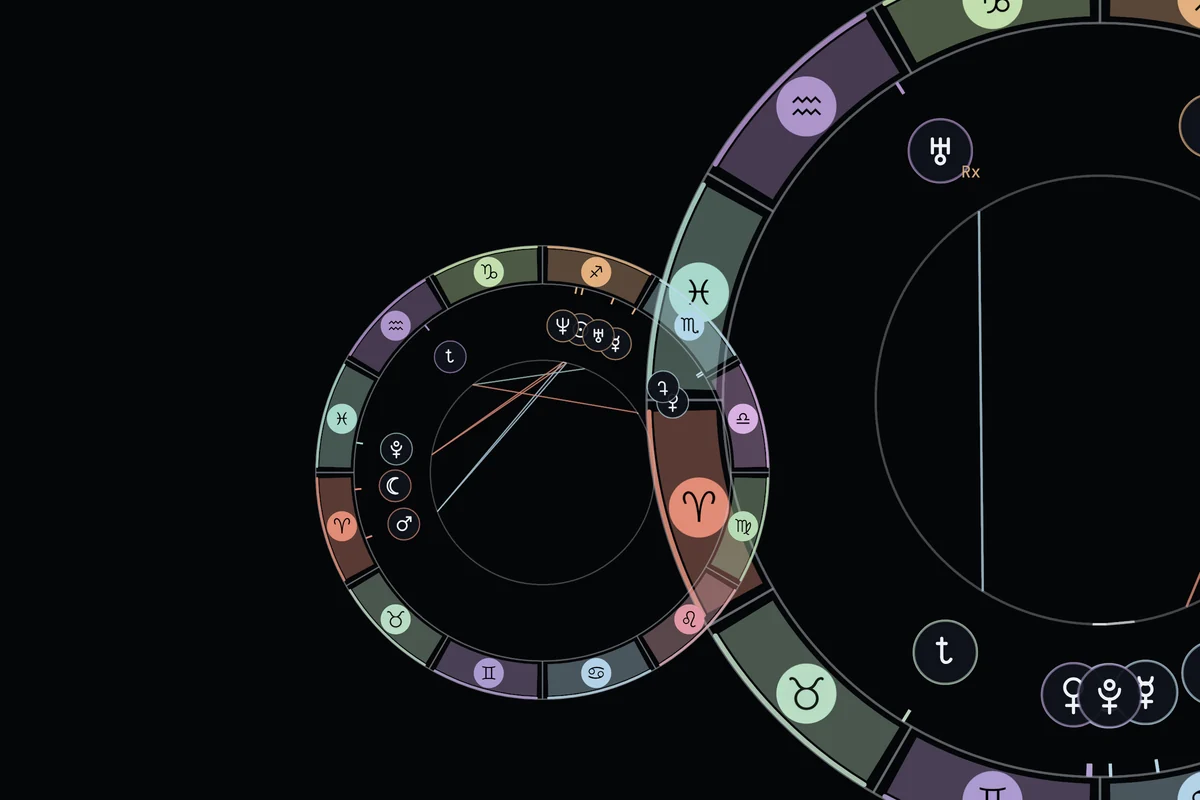
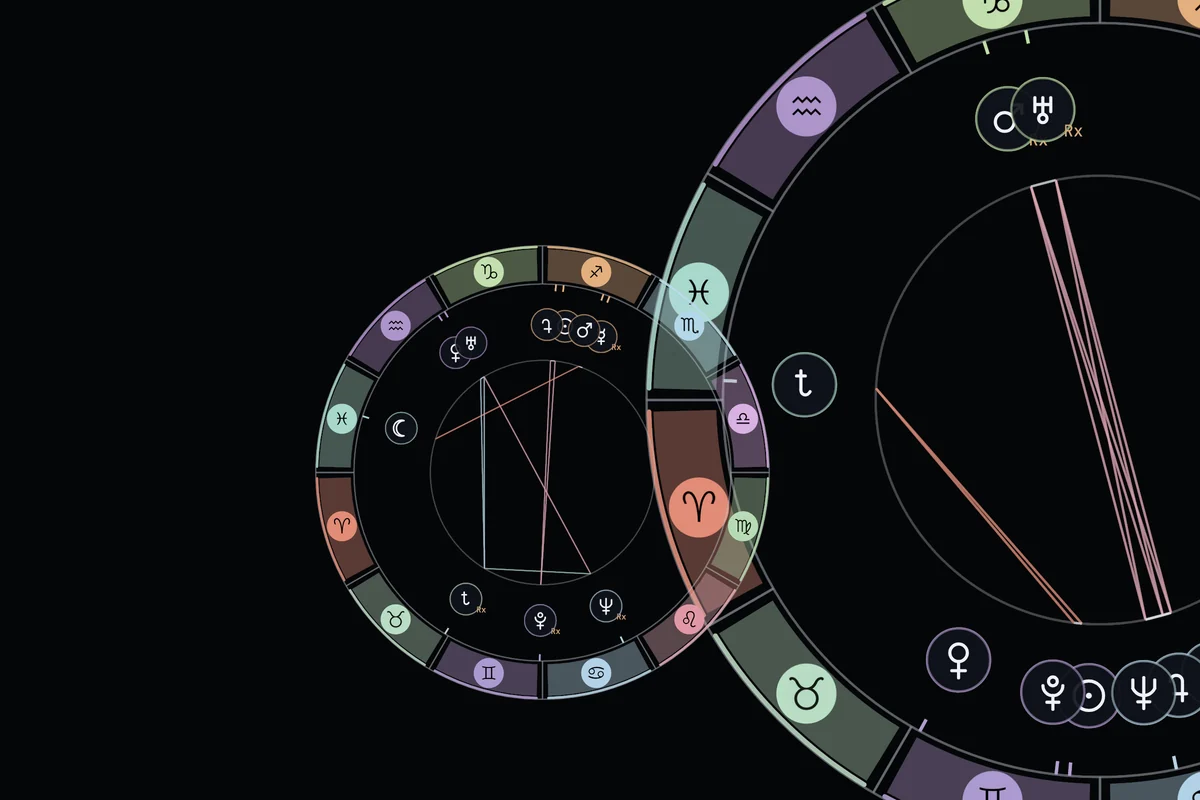
Compatibility card: Charles and Ray Eames's charts; numerology card: no sign disc row
Owner's choices, 2026-11-28. The compatibility hub's card now shows the
published People charts of Charles and Ray Eames, and the numerology card
drops the row of sign discs, since numerology is a separate tradition from
astrology. Only those two cards and the wheels art were redrawn.

Claude-Session: https://claude.ai/code/session_01XCqFcchFSoHB7Pz5eRAJUW

diff --git a/scripts/build-compatibility-wheels-art.ts b/scripts/build-compatibility-wheels-art.ts
@@ -6,12 +6,12 @@
  *   npx vite-node --script scripts/build-compatibility-wheels-art.ts
  *
  * Each wheel is the real <Wheel> (src/lib/wheel/Wheel.tsx) with the props the
- * People page gives it (src/pages/people/[slug].astro): Alan Turing's noon
- * reference chart large, Ada Lovelace's small. Chromium draws each one on a
+ * People page gives it (src/pages/people/[slug].astro): Charles Eames's noon
+ * reference chart large, Ray Eames's small. Chromium draws each one on a
  * transparent page; the wheel's sign band is translucent (stroke-opacity
  * 0.12), so every pixel's alpha is raised to the power 0.45 to let the band
  * read at card size; then the two are laid on a 2400 × 1600 void canvas
- * (Turing 2100 px at (1150, -250), Lovelace 1050 px at (560, 420)) and the
+ * (Charles Eames 2100 px at (1150, -250), Ray Eames 1050 px at (560, 420)) and the
  * result is written at half size as public/assets/art/compatibility-wheels-1200.webp,
  * which src/lib/og-art-cards.mjs places on the card. Chromium and libwebp
  * output, so not in the drift job; rerun it when the wheel or either
@@ -38,8 +38,8 @@ const CANVAS = { width: 2400, height: 1600 };
 const ALPHA_POWER = 0.45;
 /** Back to front: the large wheel runs off the right edge, the small one sits against it. */
 const WHEELS = [
-  { slug: 'alan-turing', size: 2100, left: 1150, top: -250 },
-  { slug: 'ada-lovelace', size: 1050, left: 560, top: 420 },
+  { slug: 'charles-eames', size: 2100, left: 1150, top: -250 },
+  { slug: 'ray-eames', size: 1050, left: 560, top: 420 },
 ] as const;
 
 /** The wheel exactly as the person's page renders it, minus the entrance animation. */

diff --git a/src/lib/og-art-cards.test.ts b/src/lib/og-art-cards.test.ts
@@ -502,7 +502,7 @@ describe('the art page cards (owner-delegated decisions, 2026-11-27)', () => {
   });
 
   it('carries the thesis card\'s row of the twelve sign discs on the 2026-11-28 cards, over their own art', () => {
-    for (const key of ['moon-sign', 'compatibility', 'horoscopes', 'numerology']) {
+    for (const key of ['moon-sign', 'compatibility', 'horoscopes']) {
       expect(artPageCardSpec(key).accent, key).toEqual({ kind: 'signDiscs' });
       expect(artPageCardSpec(key).art.filter, key).toBe('none');
     }

diff --git a/CLAUDE.md b/CLAUDE.md
@@ -374,14 +374,16 @@ navigation source and run the synchronizer, leaving the rest hand-authored.
   only, /sky-calendar/, /saturn-return/, /c/ (`compatibility-invite`),
   /baby-zodiac/, /mercury-retrograde/ with its 2027 page, and /transits/;
   owner-chosen from mockups 2026-11-28: /moon-sign/, the /compatibility/ hub,
-  the /horoscopes/ hub (the es and pt hubs too) and /numerology/, each with
-  the thesis card's row of the twelve canonical sign discs above the kicker.
+  the /horoscopes/ hub (the es and pt hubs too) and /numerology/, the three
+  astrology cards with the thesis card's row of the twelve canonical sign
+  discs above the kicker and the numerology card without it (numerology is a
+  separate tradition).
   Their art: three generated photographs (Higgsfield; a crescent Moon, the
   Venice clocktower's zodiac dial, a silver dial with a dark numbered ring) cut to 1200px
   WebP in `public/assets/art/`, and the compatibility hub's two chart wheels,
   `public/assets/art/compatibility-wheels-1200.webp` ← `npx vite-node --script
   scripts/build-compatibility-wheels-art.ts` (the real `Wheel.tsx` with the
-  published People charts of Alan Turing and Ada Lovelace, Chromium output,
+  published People charts of Charles and Ray Eames, Chromium output,
   so not in the drift job; rerun it when the wheel or those charts change,
   then redraw the cards). One
   template, `artPageLayout` in `build-og-void.mjs`: the page's own painting on
